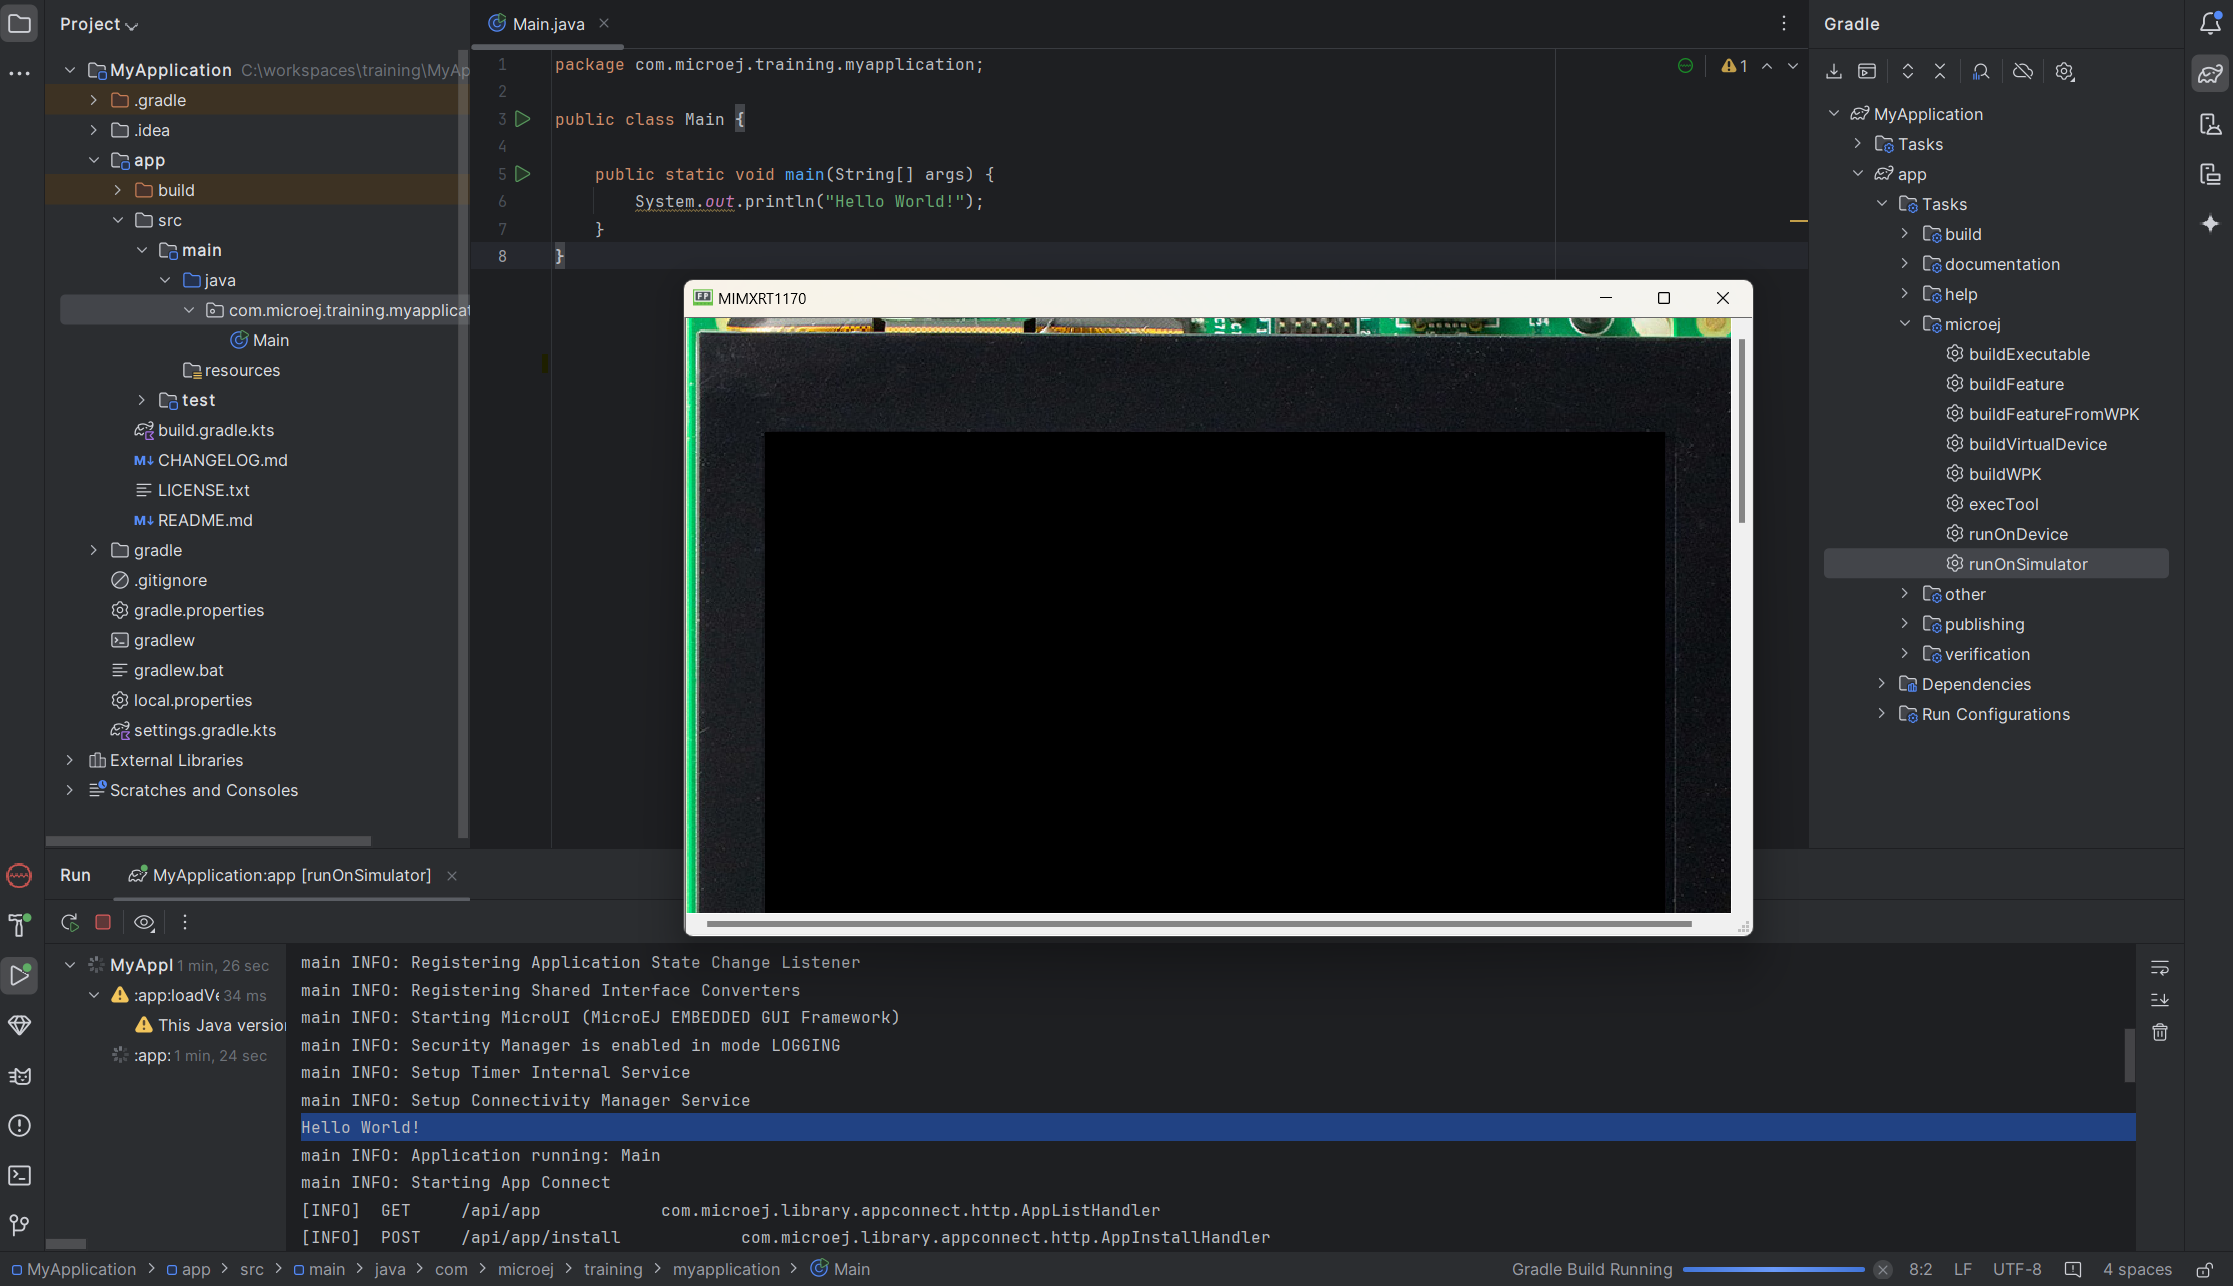
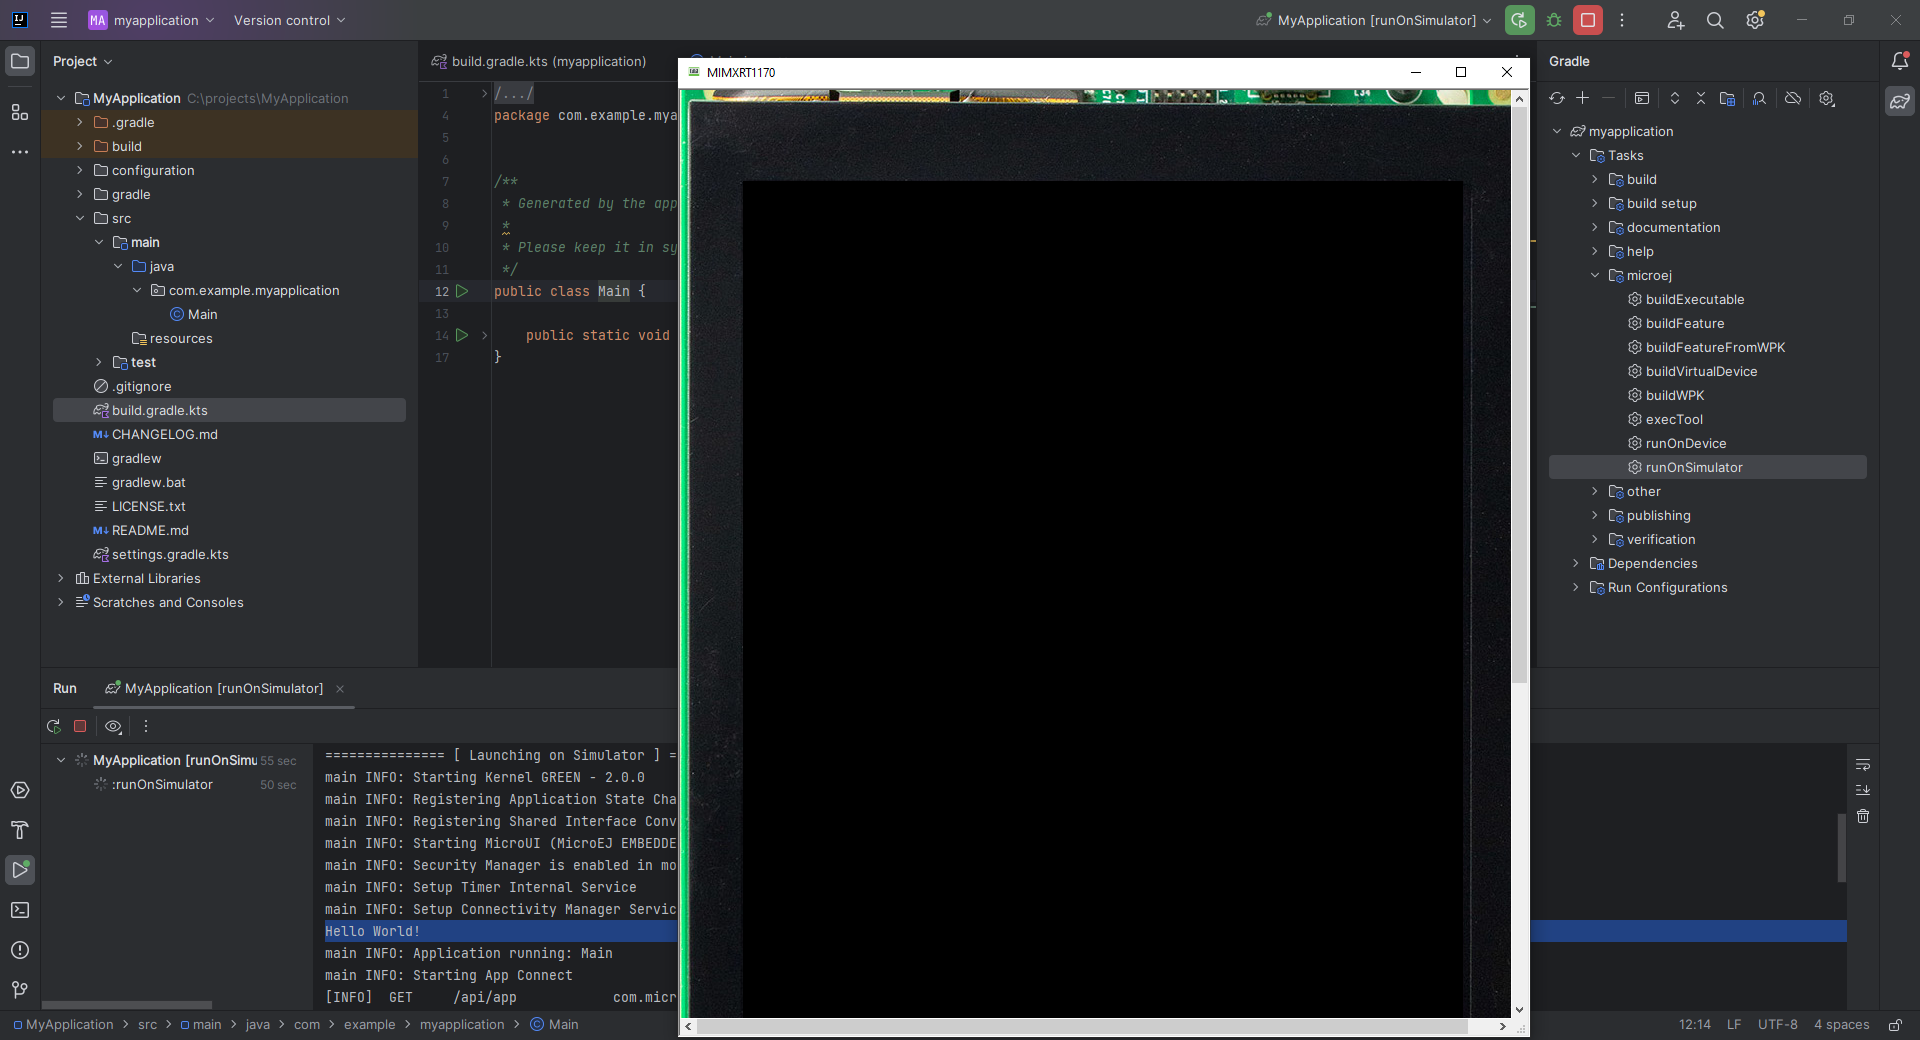
Update VD section with IntelliJ screenshots

diff --git a/Trainings/gettingStartedIMXRT1170MultiSandbox.rst b/Trainings/gettingStartedIMXRT1170MultiSandbox.rst
@@ -306,51 +306,26 @@ Create the Sandboxed Application Project
 Create a new Sandboxed Application project as follows in IntelliJ IDEA:
 
 - Click on :guilabel:`File` > :guilabel:`New` > :guilabel:`Project...`.
-- Select :guilabel:`Generic` > :guilabel:`New MicroEJ project`:
-
-   .. figure:: images/androidStudio/android-studio-create-project-01.png
-      :alt: Project Creation in Android Studio
-      :align: center
-      :scale: 70%
-
-- Click on the :guilabel:`Next` button.
+- Select :guilabel:`MicroEJ`:
 - Fill in the name of the project in the :guilabel:`Name` field.
-- Fill in the package name of the project in the :guilabel:`Package name` field.
-- Select the location of the project in the :guilabel:`Save location` field.
-- Keep the default Android SDK in the :guilabel:`Minimum SDK` field.
-- Select :guilabel:`Kotlin` for the :guilabel:`Build configuration language` field:
-
-.. note::
-   Groovy build script DSL is not officially supported by the SDK, so the project created by the Wizard uses Kotlin regardless
-   of the language selected by the user.
-      
-   .. figure:: images/androidStudio/android-studio-create-project-02.png
-      :alt: Project Creation in Android Studio
-      :align: center
-      :scale: 70%
-
-- Click on :guilabel:`Next` button.
-- Fill the group of the artifact to publish in the :guilabel:`Group` field.
-- Fill the version of the artifact to publish in the :guilabel:`Version` field.
-- Select the project type in the drop-down list.
+- Select the location of the project in the :guilabel:`Location` field.
 - Select the :guilabel:`Application` project type.
-- Click on :guilabel:`Finish` button:
+- Fill the version of the artifact to publish in the :guilabel:`Version` field.
+- Fill the group of the artifact to publish in the :guilabel:`Group` field.
+- Fill the name of the artifact to publish in the :guilabel:`Artifact` field.
+- Keep the default JDK in the :guilabel:`JDK` field.
 
-   .. figure:: images/androidStudio/android-studio-create-project-03.png
-      :alt: Project Creation in Android Studio
+   .. figure:: images/intelliJ/intellij-studio-create-project.png
+      :alt: Project Creation in IntelliJ IDEA
       :align: center
       :scale: 70%
 
-- Change the view from :guilabel:`Android` to :guilabel:`Project` in the select box at the top of the project's files tree:
+- Click on the :guilabel:`Create` button. The new project is created and opened:
 
-   .. figure:: images/androidStudio/android-studio-create-project-04.png
-      :alt: Project View in Android Studio
+.. figure:: images/intelliJ/intellij-new-project.png
+      :alt: New in IntelliJ IDEA
       :align: center
       :scale: 70%
-
-.. note::
-   If you do not use the latest version of Android Studio, make sure that Gradle Wrapper uses at least Gradle version ``8.6``.
-   Refer to the :ref:`sdk_6_create_project_gradle_wrapper` section for more information.
 
 .. _training_multisandbox_applications_imxrt1170_run_virtual_device:
 
